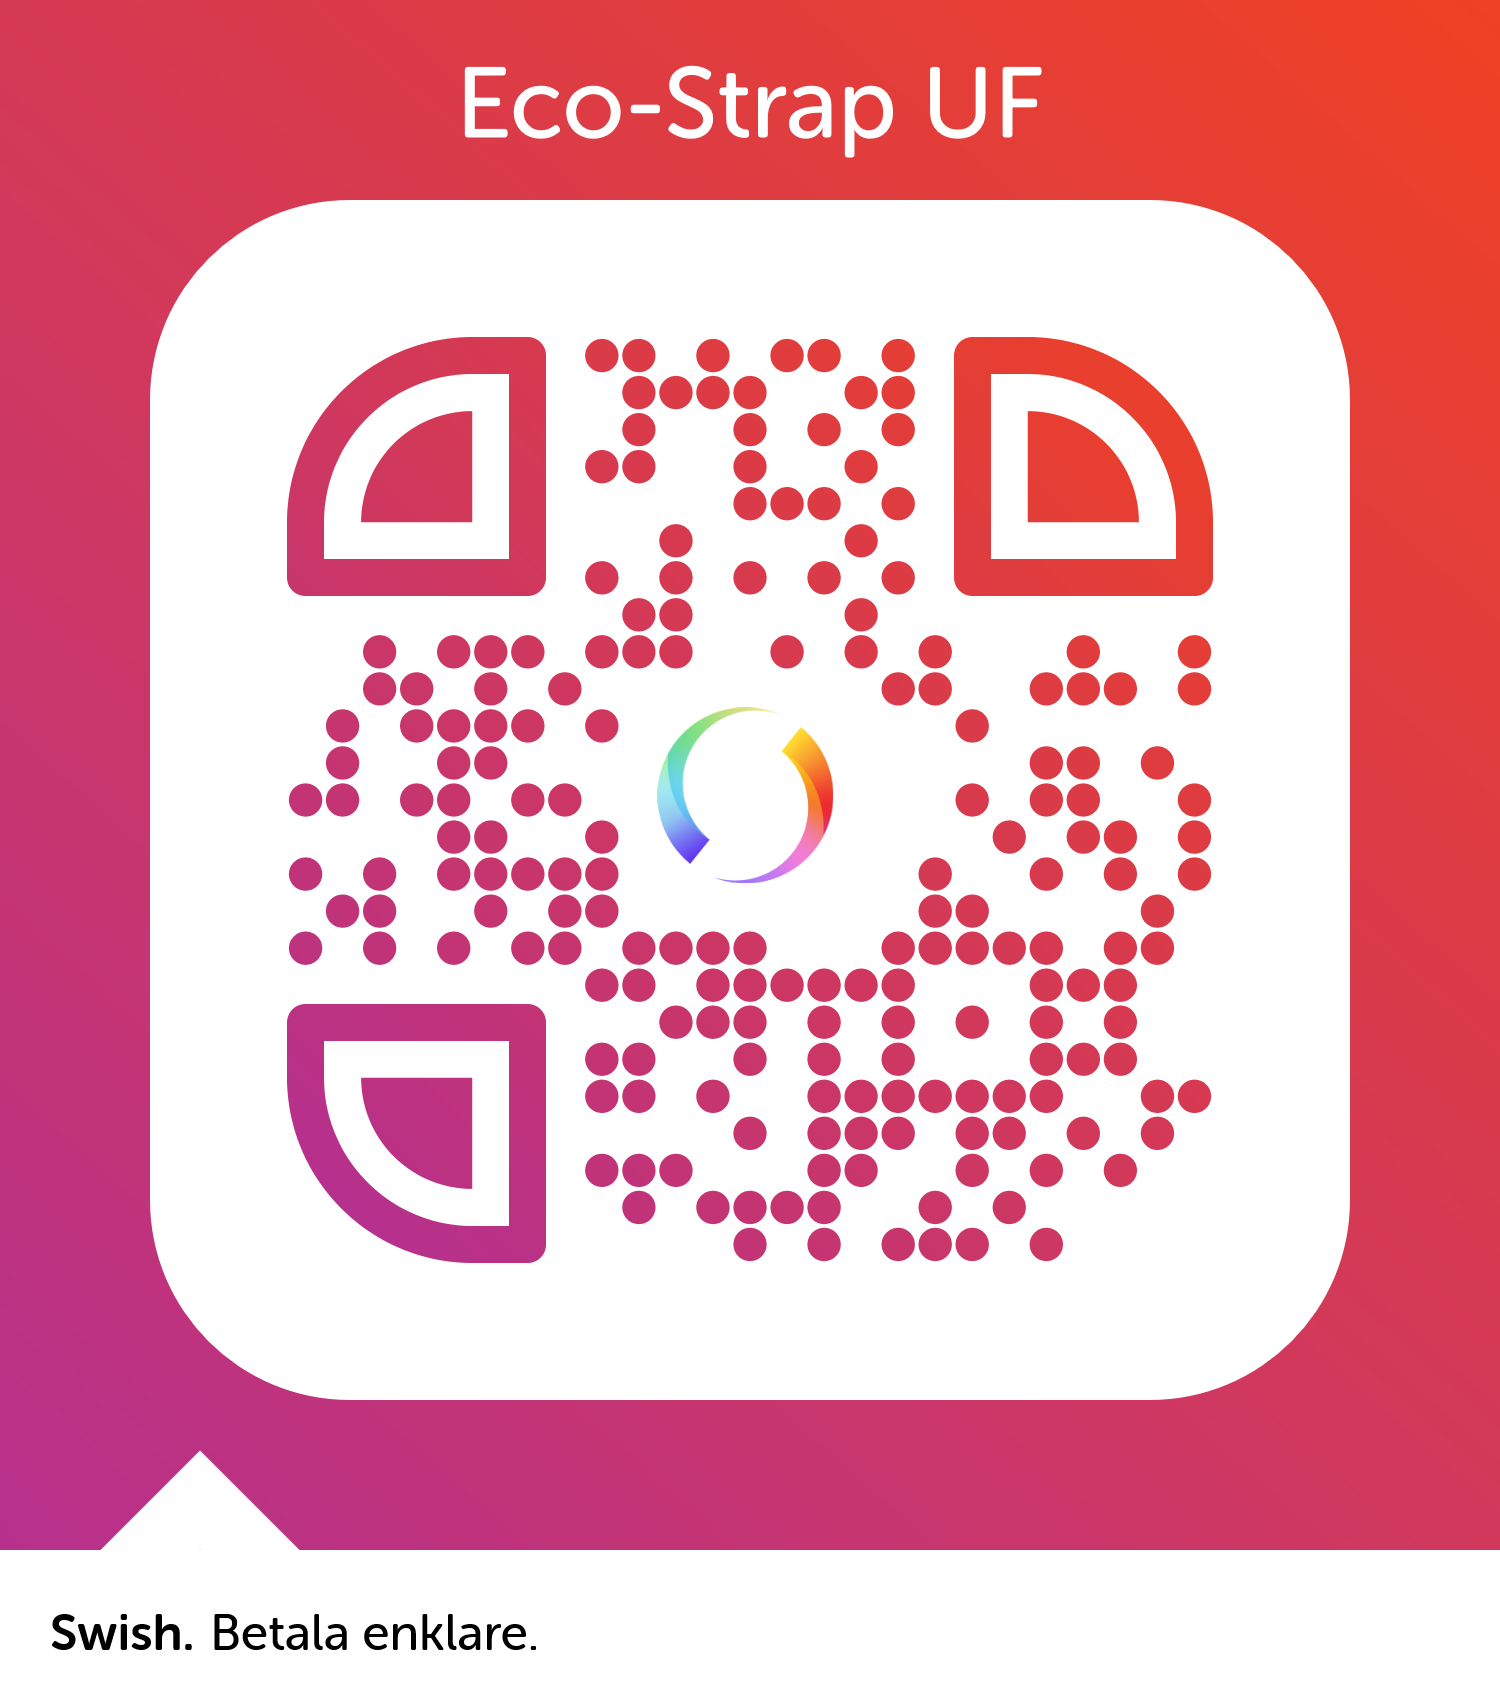
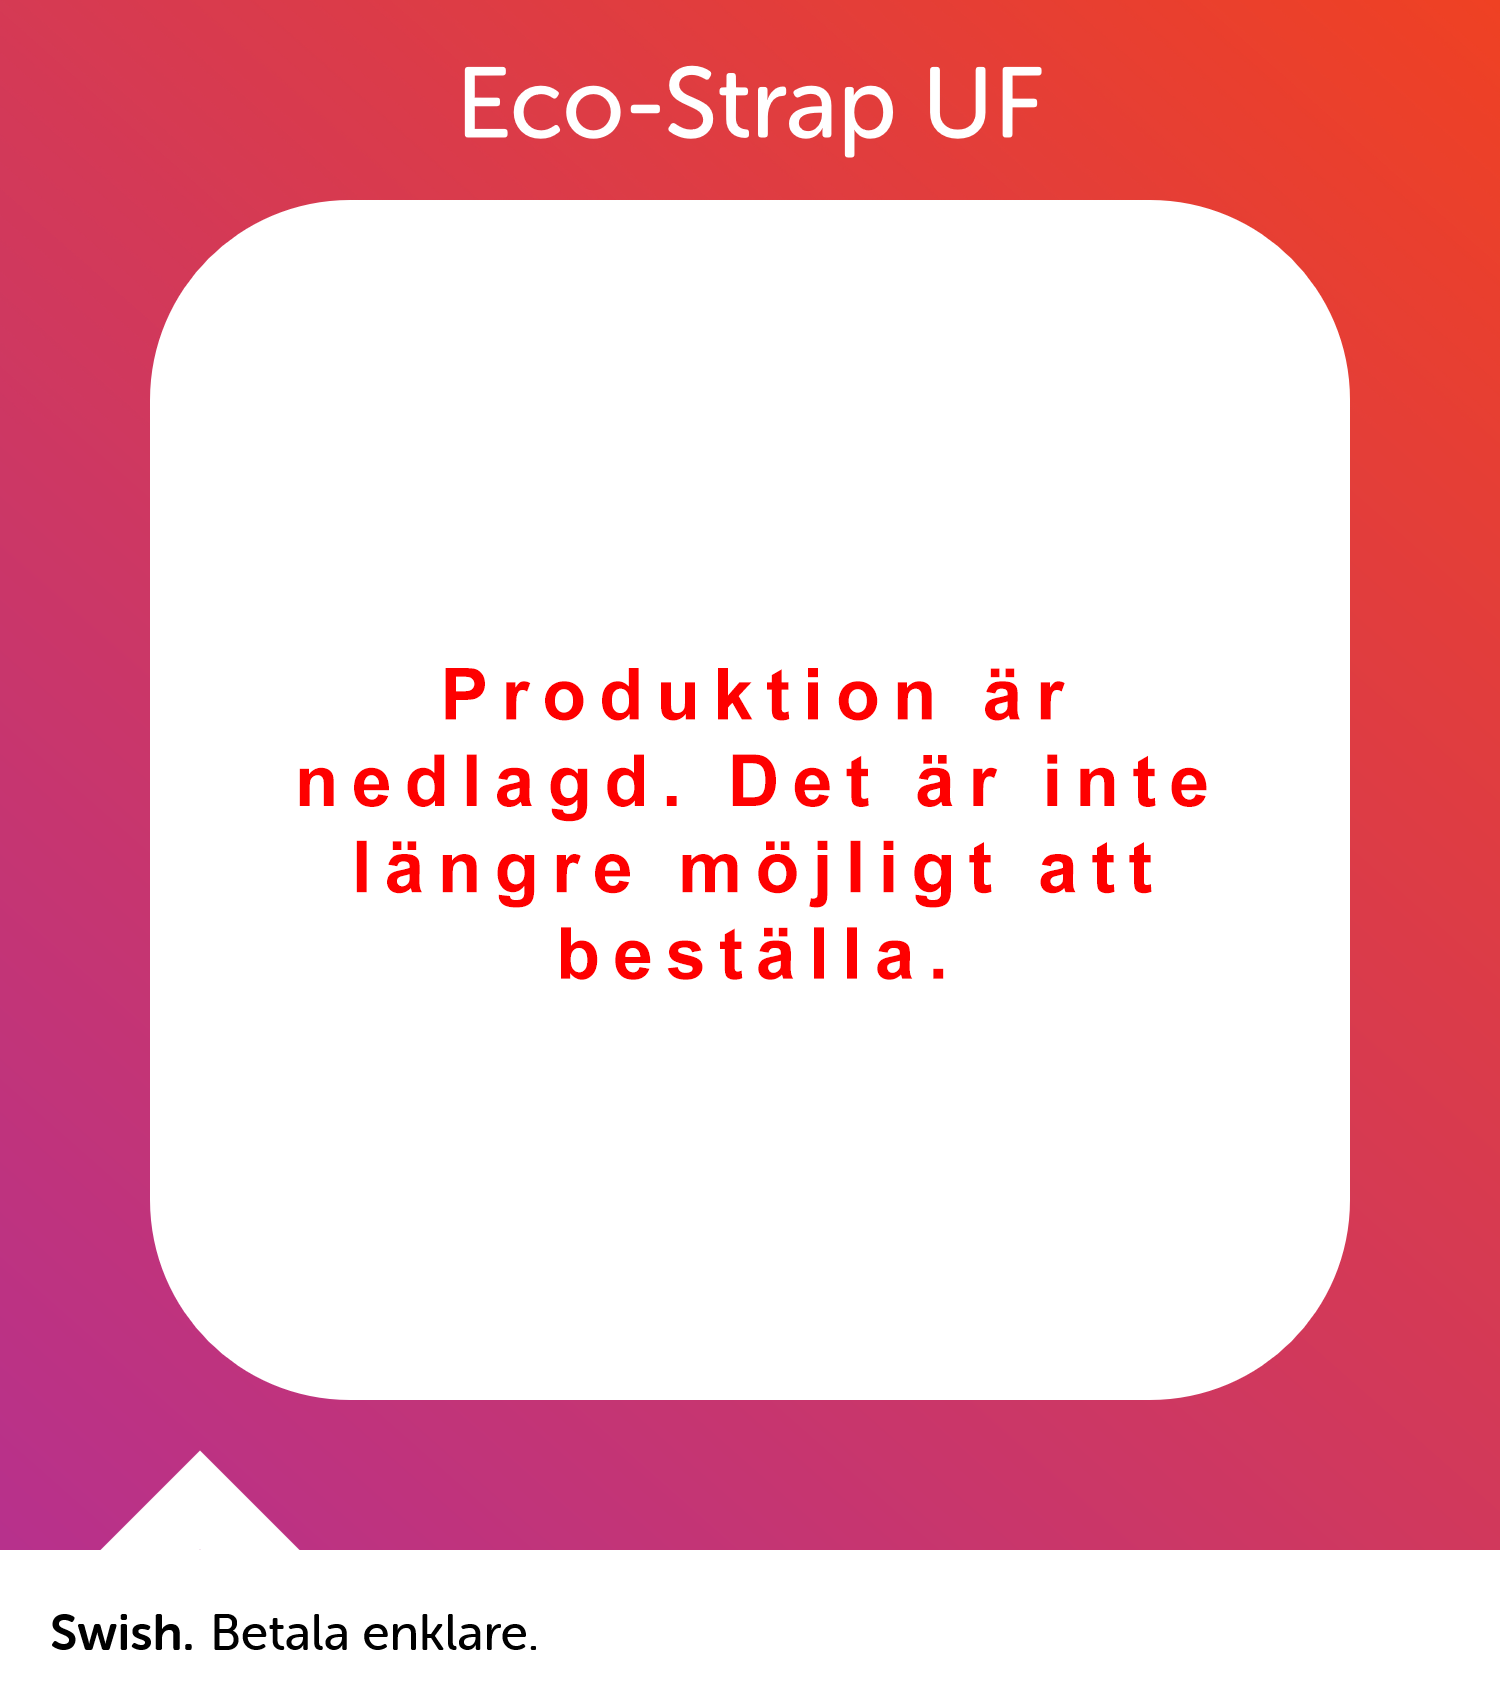
changed to no longer accept payments

Changed region(s): [[0.184, 0.1871, 0.828, 0.7482]]

diff --git a/scripts/main.js b/scripts/main.js
@@ -4,7 +4,7 @@ $(document).ready(() => {
     let nav = $("#mobileNav")
 
     btn.click(() => {
-        alert("Tack för beställningen. Vi återkommer med tider då vi kan leverera produkten till dig bästa kund. Hoppas du gillar vår produkt.")
+        alert("Produktionen har slutat. Ingen beställning har genomförts.")
     })
 
     menu.click(() => {
